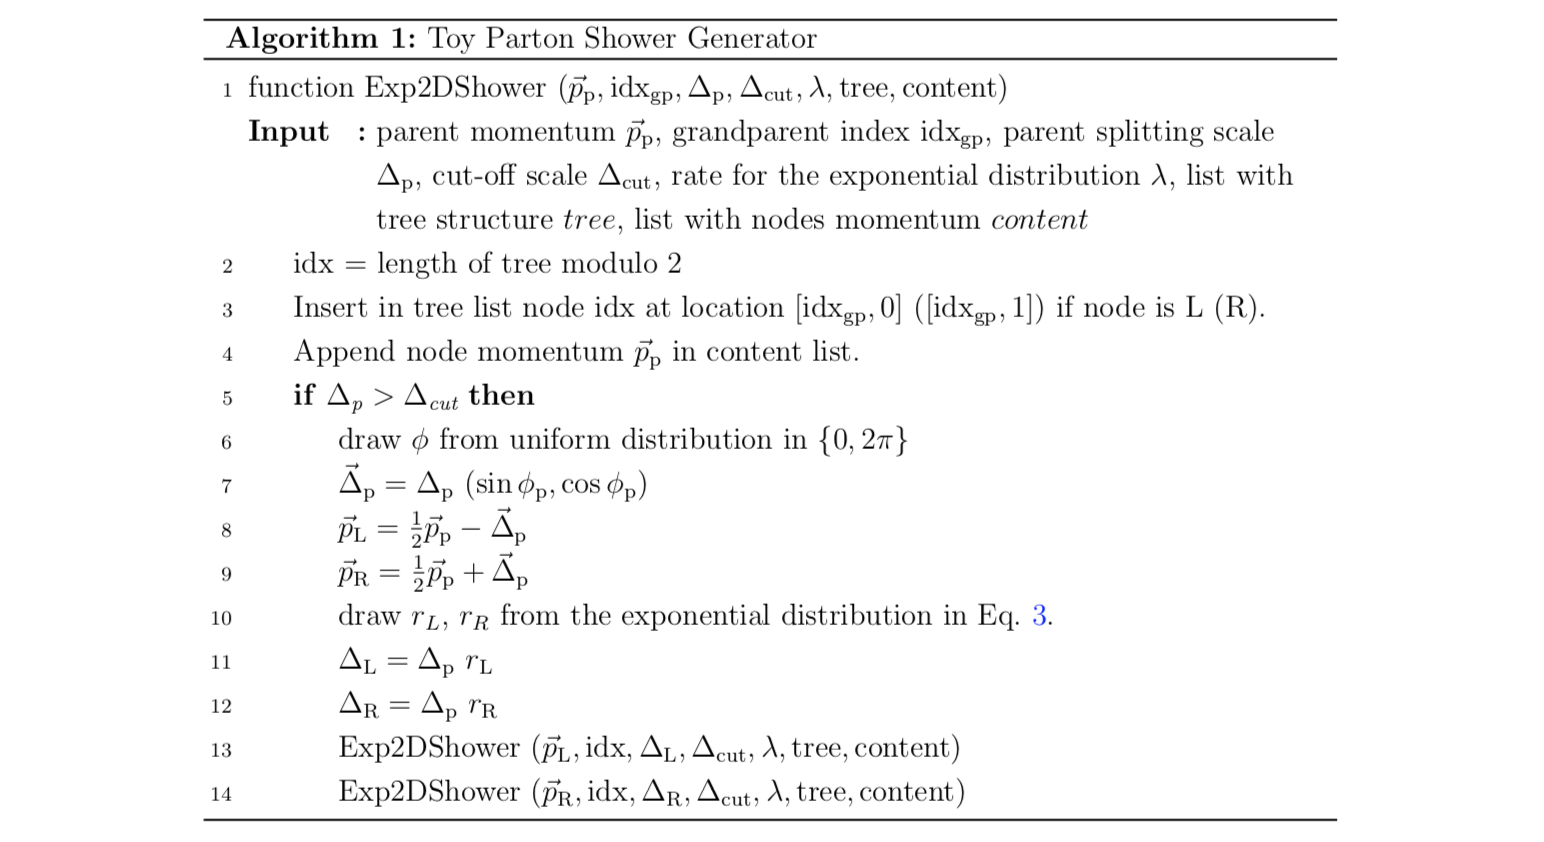
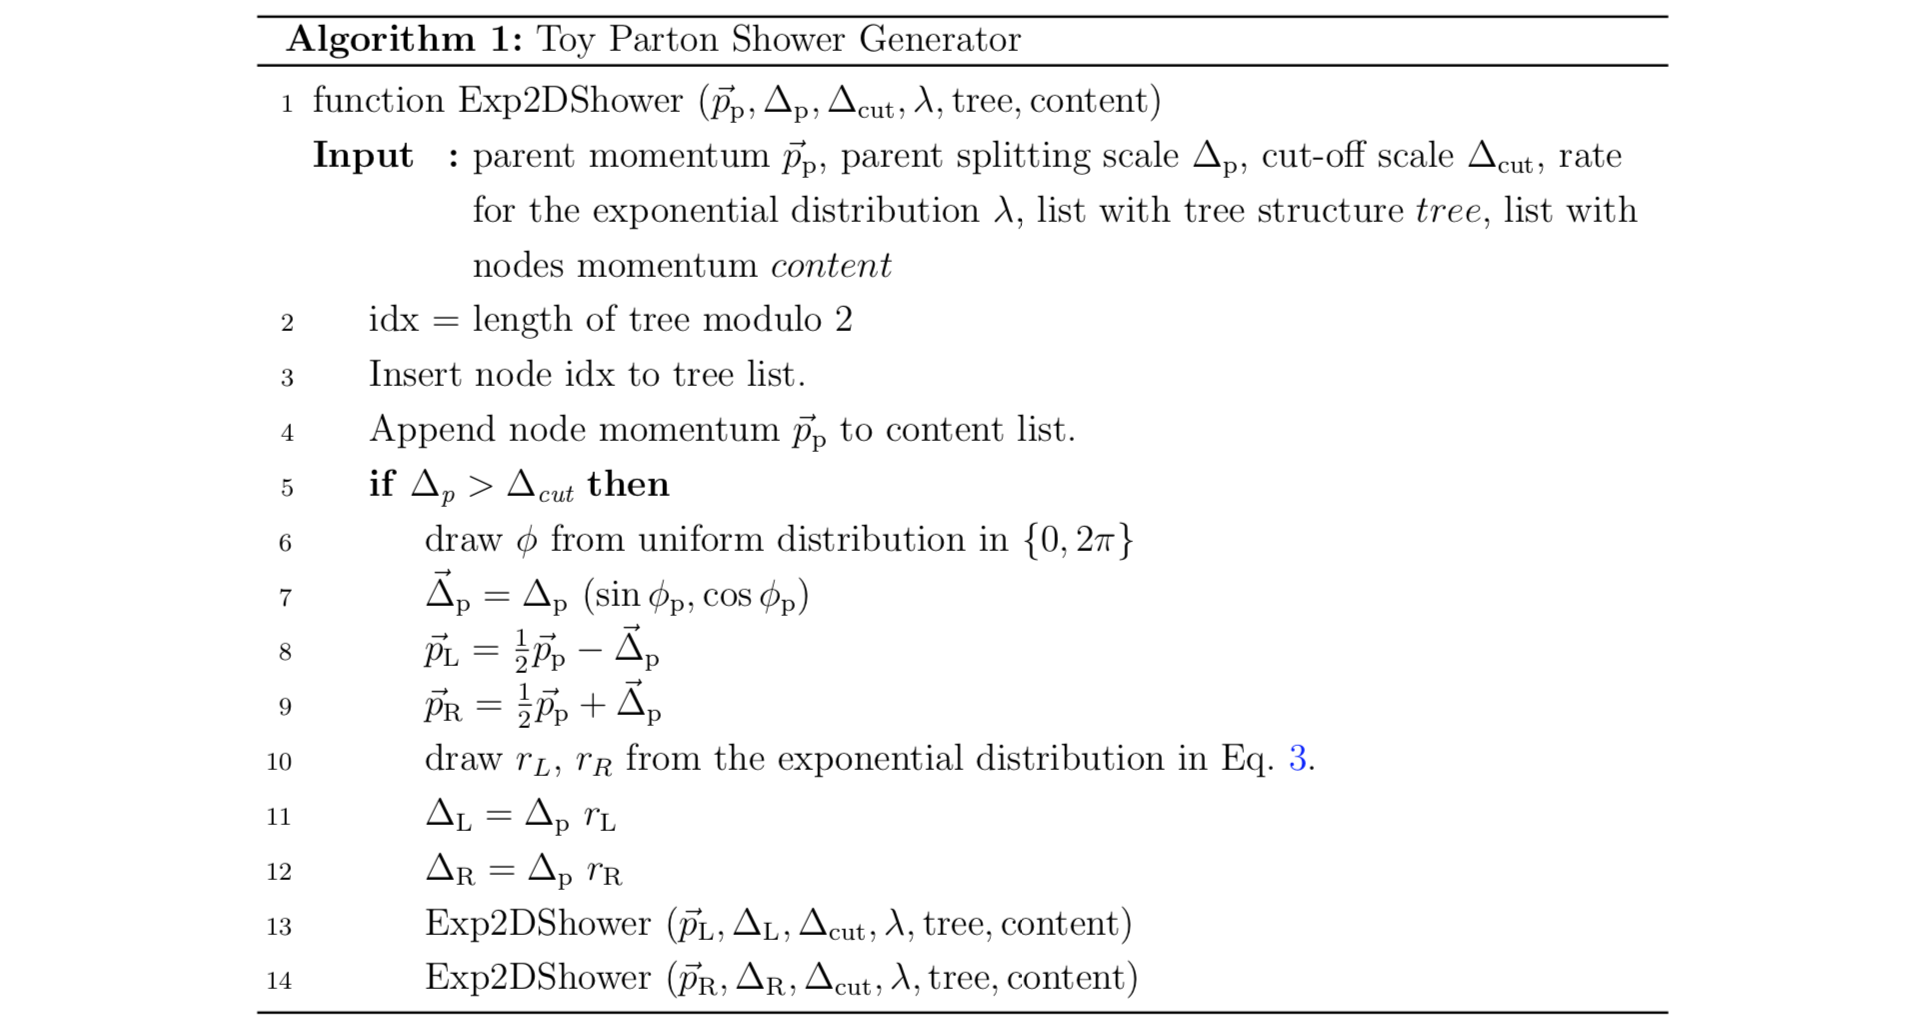
Updates

diff --git a/notes/toyshower_v3.tex b/notes/toyshower_v3.tex
@@ -340,12 +340,12 @@ The algorithm is outlined in more detail in Algorithm 1. After running the algor
     \SetKwInOut{Input}{Input}
     \SetKwInOut{Output}{Output}
 
-    function Exp2DShower $(\vec{p}_{\text{p}},\text{idx}_{\text{gp}}, \Delta_\text{p}, \Delta_\text{cut}, \lambda, \text{tree}, \text{content})$\\
-    \Input{parent momentum $\vec{p}_{\text{p}}$, grandparent index $\text{idx}_\text{gp}$, parent splitting scale $\Delta_\text{p}$, cut-off scale $\Delta_\text{cut}$, rate for the exponential distribution $\lambda$, list with tree structure $tree$, list with nodes momentum $content$}
+    function Exp2DShower $(\vec{p}_{\text{p}}, \Delta_\text{p}, \Delta_\text{cut}, \lambda, \text{tree}, \text{content})$\\
+    \Input{parent momentum $\vec{p}_{\text{p}}$, parent splitting scale $\Delta_\text{p}$, cut-off scale $\Delta_\text{cut}$, rate for the exponential distribution $\lambda$, list with tree structure $tree$, list with nodes momentum $content$}
     \Indp
     idx = length of tree modulo 2\\
-    Insert in tree list node idx at location $[\text{idx}_\text{gp},0]$ ($[\text{idx}_\text{gp},1]$) if node is L (R). \\
-    Append node momentum $\vec{p}_{\text{p}}$ in content list.\\
+    Insert node idx to tree list. \\
+    Append node momentum $\vec{p}_{\text{p}}$ to content list.\\
     \If{$\Delta_\text{p} > \Delta_\text{cut}$}
       {
       	draw $\phi$ from uniform distribution in $\{0,2\pi\}$\\
@@ -355,11 +355,41 @@ The algorithm is outlined in more detail in Algorithm 1. After running the algor
         draw $r_L$, $r_R$ from the exponential distribution in Eq.~\ref{eq:exponential}.\\
         $\Delta_\text{L} = \Delta_\text{p} \,\, r_\text{L}$\\
 	$\Delta_\text{R} = \Delta_\text{p} \,\, r_\text{R}$\\
-	Exp2DShower $(\vec{p}_{\text{L}},\text{idx}, \Delta_\text{L}, \Delta_\text{cut}, \lambda, \text{tree}, \text{content})$\\
-	Exp2DShower $(\vec{p}_{\text{R}},\text{idx}, \Delta_\text{R}, \Delta_\text{cut}, \lambda, \text{tree}, \text{content})$\\
+	Exp2DShower $(\vec{p}_{\text{L}}, \Delta_\text{L}, \Delta_\text{cut}, \lambda, \text{tree}, \text{content})$\\
+	Exp2DShower $(\vec{p}_{\text{R}}, \Delta_\text{R}, \Delta_\text{cut}, \lambda, \text{tree}, \text{content})$\\
       }
     \caption{Toy Parton Shower Generator}
 \end{algorithm}
+
+
+
+
+
+
+%\begin{algorithm}
+%    \SetKwInOut{Input}{Input}
+%    \SetKwInOut{Output}{Output}
+%
+%    function Exp2DShower $(\vec{p}_{\text{p}},\text{idx}_{\text{gp}}, \Delta_\text{p}, \Delta_\text{cut}, \lambda, \text{tree}, \text{content})$\\
+%    \Input{parent momentum $\vec{p}_{\text{p}}$, grandparent index $\text{idx}_\text{gp}$, parent splitting scale $\Delta_\text{p}$, cut-off scale $\Delta_\text{cut}$, rate for the exponential distribution $\lambda$, list with tree structure $tree$, list with nodes momentum $content$}
+%    \Indp
+%    idx = length of tree modulo 2\\
+%    Insert in tree list node idx at location $[\text{idx}_\text{gp},0]$ ($[\text{idx}_\text{gp},1]$) if node is L (R). \\
+%    Append node momentum $\vec{p}_{\text{p}}$ in content list.\\
+%    \If{$\Delta_\text{p} > \Delta_\text{cut}$}
+%      {
+%      	draw $\phi$ from uniform distribution in $\{0,2\pi\}$\\
+%	$\vec{\Delta}_\text{p}= \Delta_\text{p}\,\,(\sin\phi_\text{p},\cos\phi_\text{p})$\\
+%      	$\vec{p}_\text{L}= \frac{1}{2} \vec{p}_\text{p} - \vec{\Delta}_\text{p}$  \\
+%        $\vec{p}_\text{R}= \frac{1}{2} \vec{p}_\text{p} +\vec{\Delta}_\text{p}$\\
+%        draw $r_L$, $r_R$ from the exponential distribution in Eq.~\ref{eq:exponential}.\\
+%        $\Delta_\text{L} = \Delta_\text{p} \,\, r_\text{L}$\\
+%	$\Delta_\text{R} = \Delta_\text{p} \,\, r_\text{R}$\\
+%	Exp2DShower $(\vec{p}_{\text{L}},\text{idx}, \Delta_\text{L}, \Delta_\text{cut}, \lambda, \text{tree}, \text{content})$\\
+%	Exp2DShower $(\vec{p}_{\text{R}},\text{idx}, \Delta_\text{R}, \Delta_\text{cut}, \lambda, \text{tree}, \text{content})$\\
+%      }
+%    \caption{Toy Parton Shower Generator}
+%\end{algorithm}
 
 
 %%-------------
